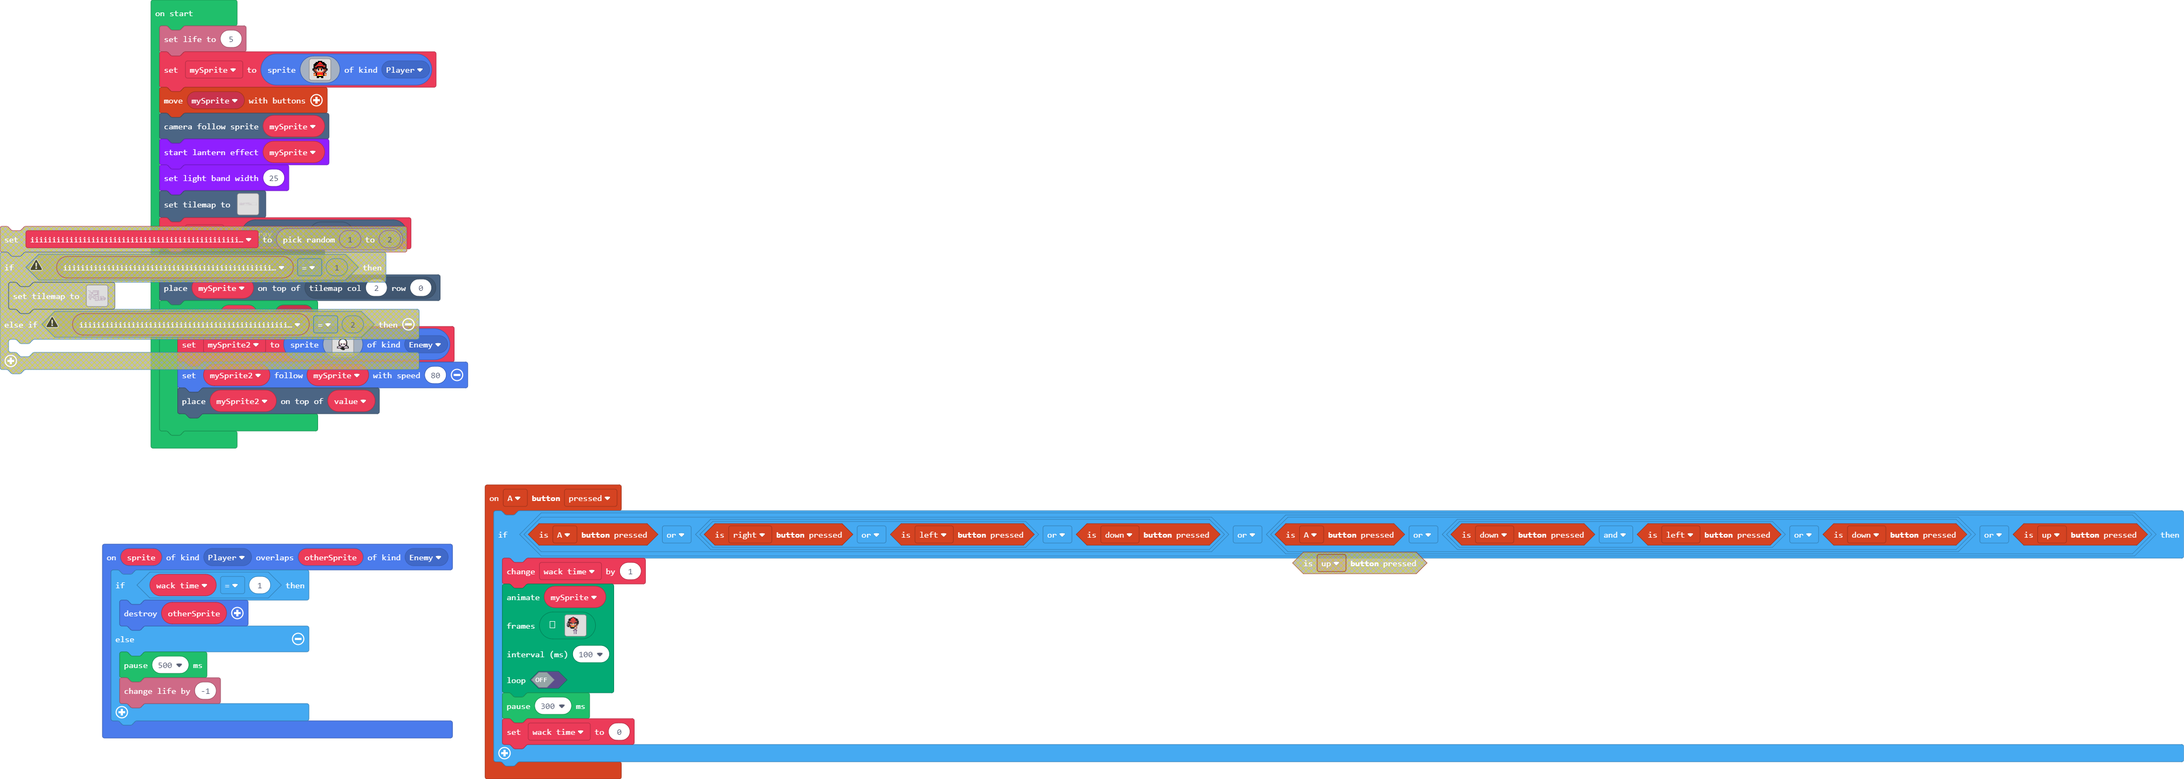
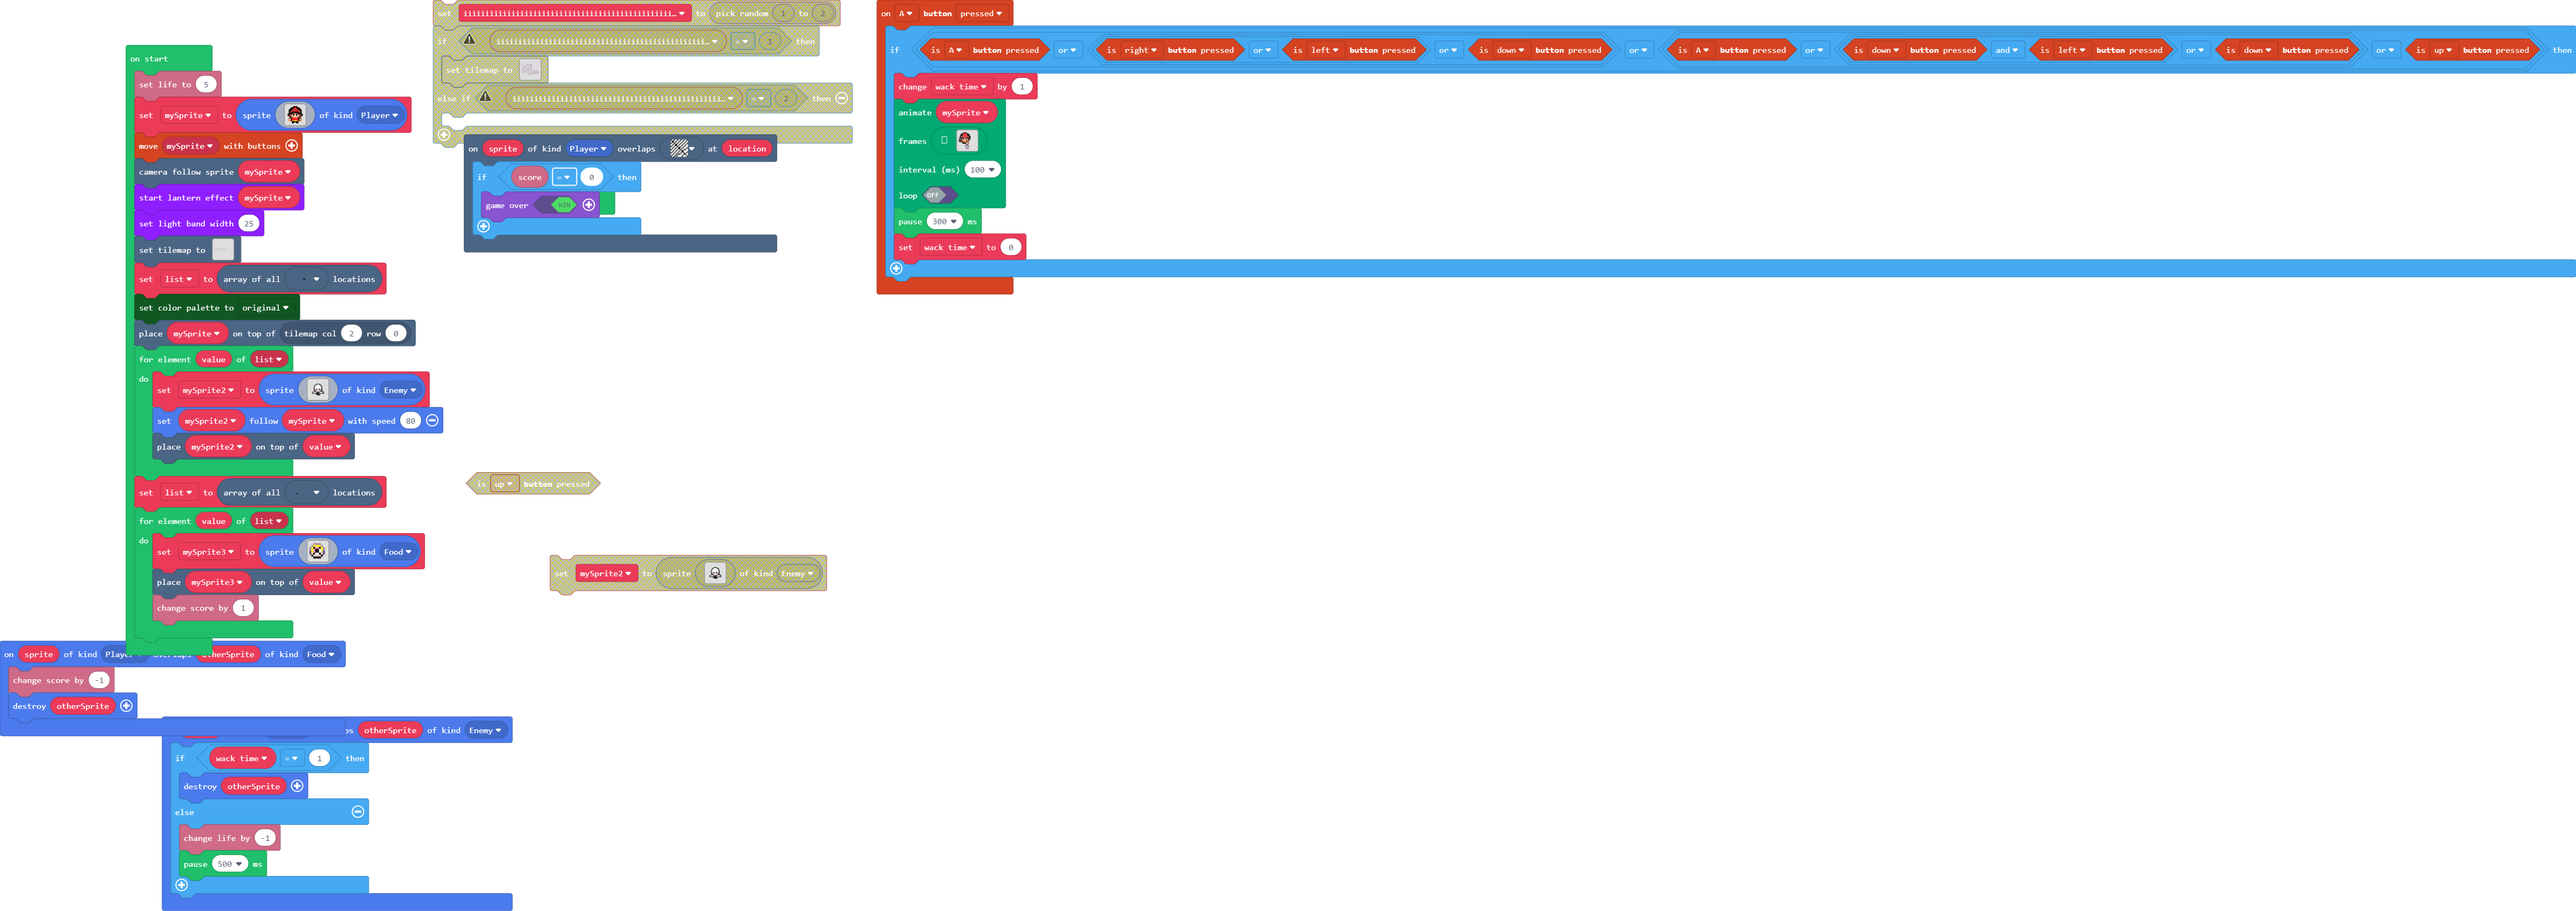
Update main.blocks, main.ts

Changed region(s): [[0.0, 0.0, 1.0, 1.0]]

diff --git a/main.ts b/main.ts
@@ -94,7 +94,35 @@ f 1 1 f 1 f 1 1 1 1 f 1 1 1 1 f
 . . . . . . . . . . . . . . . . 
 . . . . . . . . . . . . . . . . 
 `
+    //% blockIdentity=images._tile
+    export const tile5 = img`
+. . . . . . . . . . . . . . . . 
+. . . . . . . . . . . . . . . . 
+. . . . . . . . . . . . . . . . 
+. . . . . . . . . . . . . . . . 
+. . . . . . . . . . . . . . . . 
+. . . . . . . . . . . . . . . . 
+. . . . . . . . . . . . . . . . 
+. . . . . . . . . . . . . . . . 
+. . . . . . . . . . . . . . . . 
+. f . . . . . . . . . . . . . . 
+. . . . . . . . . . . . . . . . 
+. . . . . . . . . . . . . . . . 
+. . . . . . . . . . . . . . . . 
+. . . . . . . . . . . . . . . . 
+. . . . . . . . . . . . . . . . 
+. . . . . . . . . . . . . . . . 
+`
 }
+scene.onOverlapTile(SpriteKind.Player, myTiles.tile3, function (sprite, location) {
+    if (info.score() == 0) {
+        game.over(true)
+    }
+})
+sprites.onOverlap(SpriteKind.Player, SpriteKind.Food, function (sprite, otherSprite) {
+    info.changeScoreBy(-1)
+    otherSprite.destroy()
+})
 controller.A.onEvent(ControllerButtonEvent.Pressed, function () {
     if (controller.A.isPressed() || (controller.right.isPressed() || controller.left.isPressed() || controller.down.isPressed()) || (controller.A.isPressed() || (controller.down.isPressed() && controller.left.isPressed() || controller.down.isPressed()) || controller.up.isPressed())) {
         wack_time += 1
@@ -158,11 +186,12 @@ sprites.onOverlap(SpriteKind.Player, SpriteKind.Enemy, function (sprite, otherSp
     if (wack_time == 1) {
         otherSprite.destroy()
     } else {
-        pause(500)
         info.changeLifeBy(-1)
+        pause(500)
     }
 })
 let wack_time = 0
+let mySprite3: Sprite = null
 let mySprite2: Sprite = null
 let mySprite: Sprite = null
 info.setLife(5)
@@ -189,7 +218,7 @@ scene.cameraFollowSprite(mySprite)
 lantern.startLanternEffect(mySprite)
 lantern.setLightBandWidth(25)
 tiles.setTilemap(tiles.createTilemap(
[2 lines of base64/hex data omitted]
             img`
 . . . . 2 . . . . . . . . 2 2 2 2 2 2 2 2 2 2 2 2 2 2 2 2 2 . . . . . . . . . . . . . . . . . . . . . . . . . . . . . 2 2 2 2 2 . . . . . . . . . . . . . . . . . . . 2 2 2 2 2 2 2 2 2 2 2 2 2 2 2 2 2 2 2 2 2 2 2 2 2 2 2 2 2 2 2 2 2 2 2 2 2 2 2 2 2 2 2 2 2 2 2 2 2 2 2 2 2 2 2 2 2 2 2 2 2 2 2 2 2 2 2 2 2 2 2 2 2 2 2 2 2 2 2 2 2 2 2 2 2 2 2 2 2 2 2 2 2 2 2 2 2 2 2 2 2 2 2 2 2 2 2 2 2 2 2 2 2 2 2 2 2 
 . . . . 2 . . . . . . . . 2 . . 2 . . 2 . . . . . . . . . 2 . . . . . . . . . . . . . . . . 2 2 2 2 2 . . . . . . . . 2 2 2 2 2 . . . . . . . . . . . . . . . . . . . 2 . . . . . . . . . . . . . . . . . . . 2 . . . . . 2 2 2 2 2 . . . . . . . . . . . . . . . . . . . . . . . . . . . . . . . . . . . . . . . . . . . . . . . . . . . . . . . . . . . . . . . . . . . . . . . . . . . . . . . . . . . . . 2 
@@ -222,7 +251,7 @@ tiles.setTilemap(tiles.createTilemap(
 . . . 2 . . . . . . . . . . . . . . . 2 . . 2 . . . . 2 . 2 2 2 2 2 2 . . 2 2 2 2 2 2 2 . . 2 . . . . . . . . . . . . . . . . . . . . . . . . . . . . . . . . . . . . . . . . . . . . . . . . . . . . . . . . . . . . . . 2 . . . . . . . . . . . . . . . . . . . . . . . . . . . . . . . . . . 2 . . . . . . . . . . . . . . . . . . . . . . . . . . . . . . . . . . . . . . . . . . . . . . . . . . . . . 2 2 
 . . . 2 2 2 2 2 2 2 2 2 2 2 2 2 2 2 2 2 2 2 2 2 2 2 2 2 . . . . . . . . . . . . . . . . . . 2 2 2 2 2 2 2 2 2 2 2 2 2 2 2 2 2 2 2 2 2 2 2 2 2 2 2 2 2 2 2 2 2 2 2 2 2 2 2 2 2 2 2 2 2 2 2 2 2 2 2 2 2 2 2 2 2 2 2 2 2 2 2 2 2 2 2 2 2 2 2 2 2 2 2 2 2 2 2 2 2 2 2 2 2 2 2 2 2 2 2 2 2 2 2 2 2 2 2 2 2 2 2 2 2 2 2 2 2 2 2 2 2 2 2 2 2 2 2 2 2 2 2 2 2 2 2 2 2 2 2 2 2 2 2 2 2 2 2 2 2 2 2 2 2 2 2 2 2 2 2 2 2 2 
 `,
-            [myTiles.tile0,myTiles.tile1,myTiles.tile2,myTiles.tile3,myTiles.tile4],
+            [myTiles.tile0,myTiles.tile1,myTiles.tile2,myTiles.tile3,myTiles.tile4,myTiles.tile5],
             TileScale.Sixteen
         ))
 let list = tiles.getTilesByType(myTiles.tile4)
@@ -260,3 +289,21 @@ for (let value of list) {
     mySprite2.follow(mySprite, 80)
     tiles.placeOnTile(mySprite2, value)
 }
+list = tiles.getTilesByType(myTiles.tile5)
+for (let value of list) {
+    mySprite3 = sprites.create(img`
+. . b b b b . . . 
+. b 5 5 5 5 b . . 
+b 5 f 3 3 f 5 b . 
+b 5 3 f f 1 5 b . 
+c 5 3 f f 1 d c . 
+c d f 1 1 f d c . 
+. f d d d d f . . 
+. . f f f f . . . 
+`, SpriteKind.Food)
+    tiles.placeOnTile(mySprite3, value)
+    info.changeScoreBy(1)
+}
+forever(function () {
+	
+})
